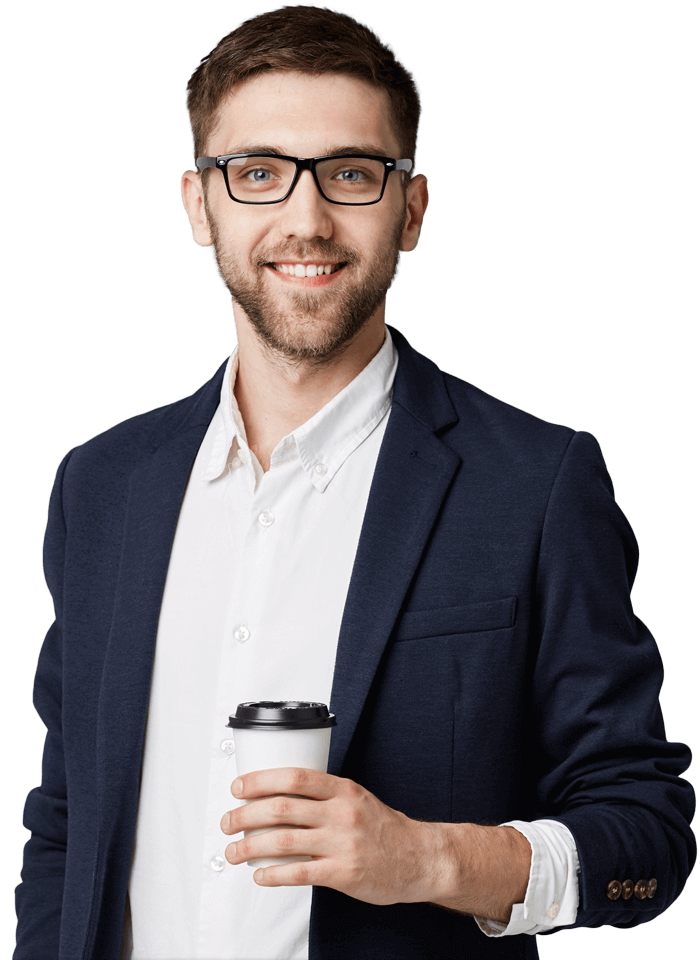
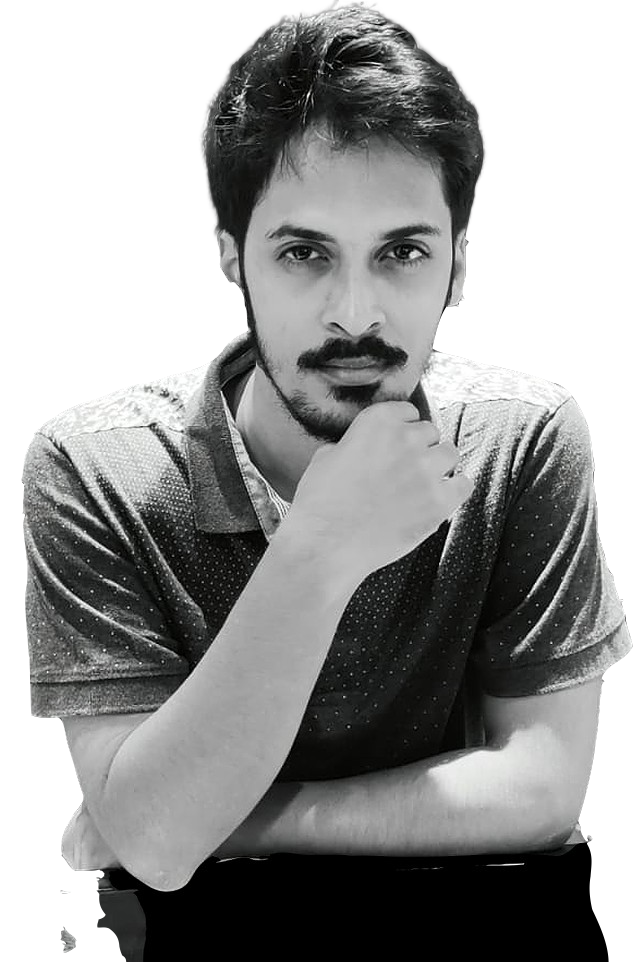
top section done

diff --git a/src/Components/Hero/Home.js b/src/Components/Hero/Home.js
@@ -1,9 +1,9 @@
 import React from 'react';
 import './Home.css';
-// import hero from '../../pic/hero.png';
-// import skill1 from '../../pic/skill1.png';
-// import skill2 from '../../pic/skill2.png';
-// import skill3 from '../../pic/skill3.png';
+import hero from '../../pic/hero.png';
+import skill1 from '../../pic/skill1.png';
+import skill2 from '../../pic/skill2.png';
+import skill3 from '../../pic/skill3.png';
 import { Typewriter } from 'react-simple-typewriter'
 
 
@@ -47,7 +47,21 @@ const Home = () => {
                             </div>
                             <div className="col_1">
                                 <h4>BEST SKILLS ON</h4>
+                                <button className="btn_shadow">
+                                    <img src={skill1} alt="" />
+                                </button>
+                                <button className="btn_shadow">
+                                    <img src={skill2} alt="" />
+                                </button>
+                                <button className="btn_shadow">
+                                    <img src={skill3} alt="" />
+                                </button>
                             </div>
+                        </div>
+                    </div>
+                    <div className="right">
+                        <div className="right_img">
+                            <img src={hero} alt="" />
                         </div>
                     </div>
                 </div>

diff --git a/src/Components/Hero/Home.css b/src/Components/Hero/Home.css
@@ -1,0 +1,73 @@
+.hero {
+    position: relative;
+}
+.hero h3 {
+    font-weight: 100;
+    letter-spacing: 2px;
+}
+.hero h1 {
+    font-size: 60px;
+    font-weight: bold;
+}
+.hero h1 span {
+    color: #ff014f;
+}
+.hero h2 {
+    font-size: 50px;
+    font-weight: bold;
+    color:#ff014f;
+}
+.hero h2 span {
+    color: black;
+}
+.hero p {
+    color: #878e99;
+    font-size: 18px;
+    line-height: 30px;
+    margin-top: 30px;
+}
+.hero_btn {
+    margin-top: 20%;
+}
+.hero_btn h4 {
+    font-weight: 500;
+    letter-spacing: 2px;
+    color: #43474b;
+    font-size: 15px;
+    margin: 30px 0 30px 0;
+}
+.hero_btn button {
+    margin-right: 30px;
+}
+.hero_btn i {
+    font-size: 20px;
+}
+.hero_btn button img {
+    width: 20px;
+    height: 20px;
+}
+.hero .left {
+    margin-right: 10%;
+}
+.hero .right {
+    width: 40%;
+    position: relative;
+}
+.hero .right_img {
+    background: linear-gradient(145deg, #e2e8ec, #ffffff);
+    box-shadow: 4px 4px 8px #cbcbcb, -4px -4px 8px #ffffff;
+    border-radius: 10px;
+    height: 580px;
+    width: 510px;
+    margin-top: 20%;
+}
+
+.hero .right_img img {
+    position: absolute;
+    top: 0;
+    right: 10%;
+    width: 510px;
+    /* margin-left: 50px;
+    width: 400px;
+    height: 600px; */
+}

diff --git a/src/App.css b/src/App.css
@@ -64,3 +64,12 @@ button {
   box-shadow: 4px 4px 8px #cbcbcb, -4px -4px 8px #ffffff;
   border-radius: 10px;
 }
+.row, .left, .right {
+  width: 50%
+}
+.top {
+  margin-top: 80px;
+}
+.mtop {
+  margin-top: 40px;
+}
